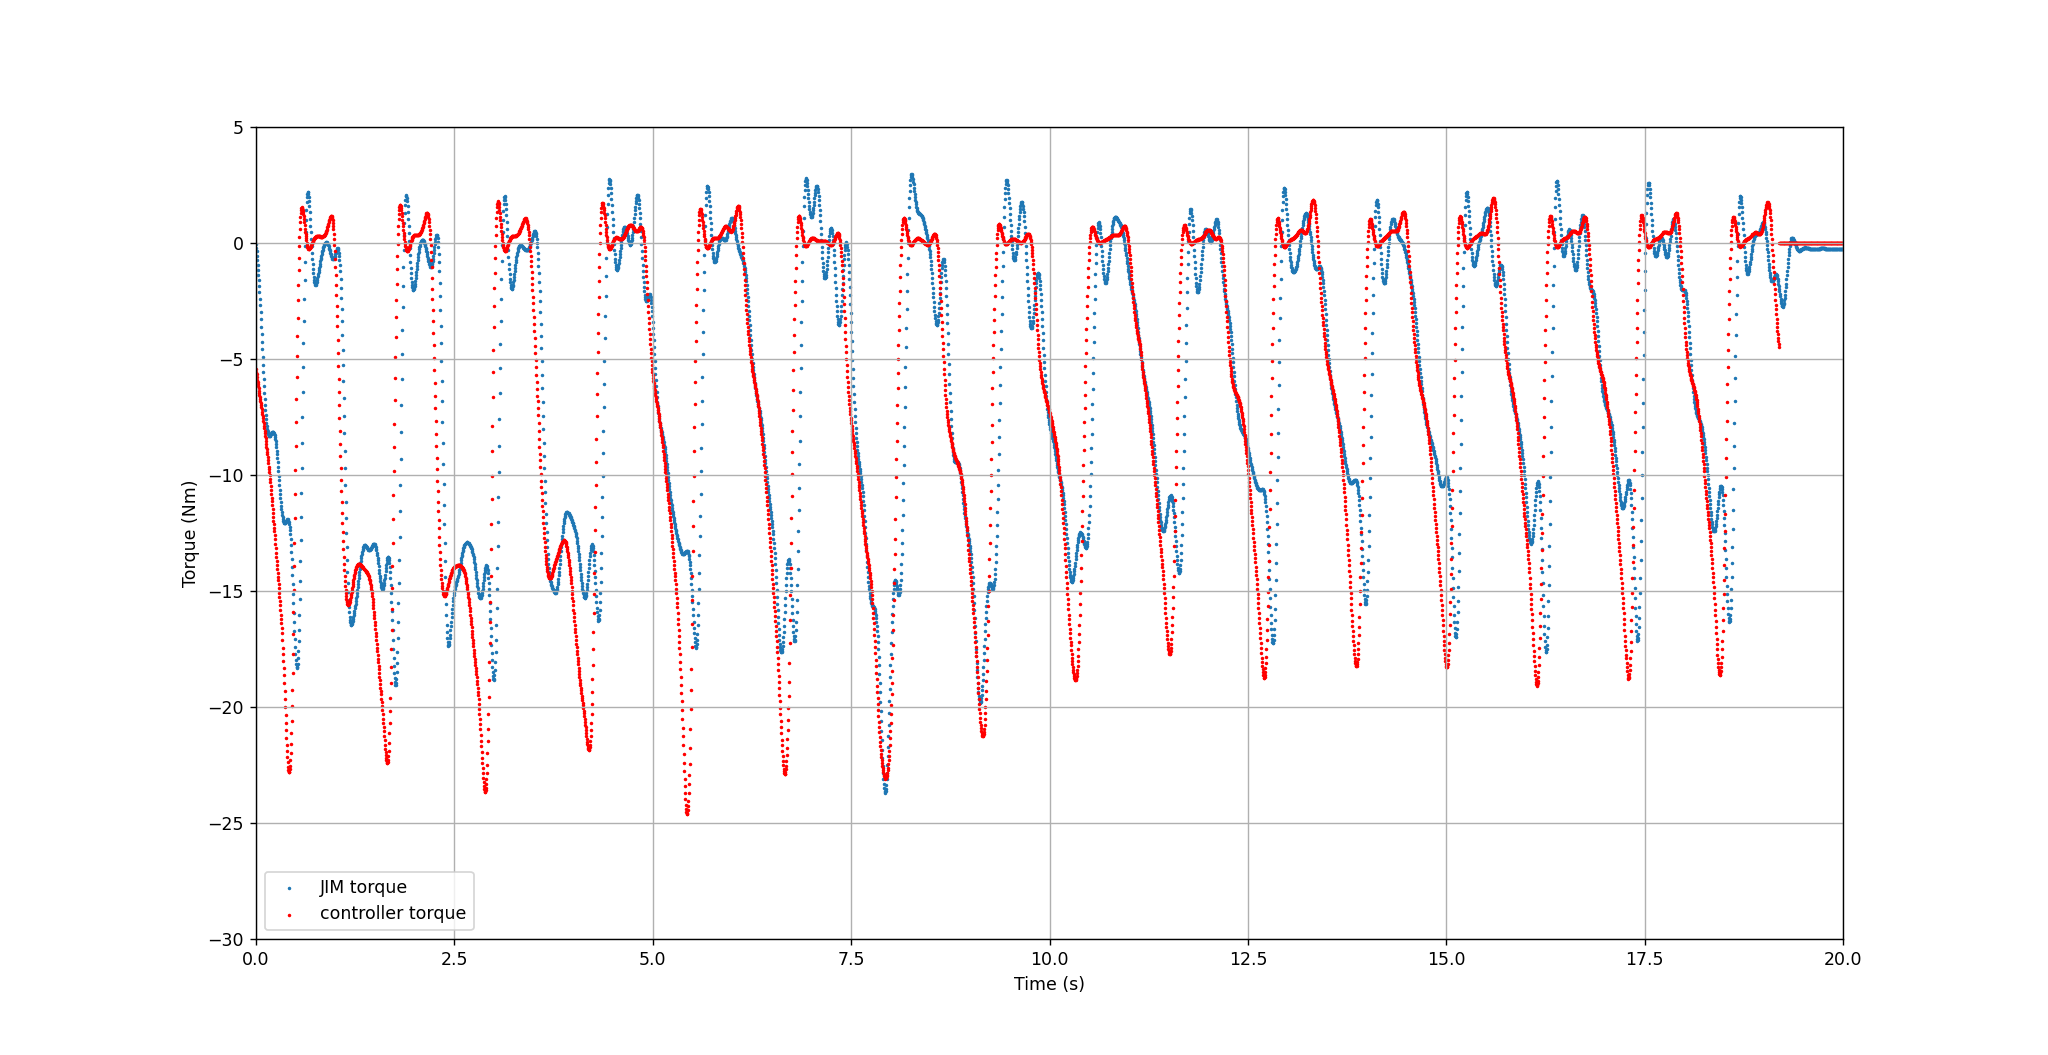
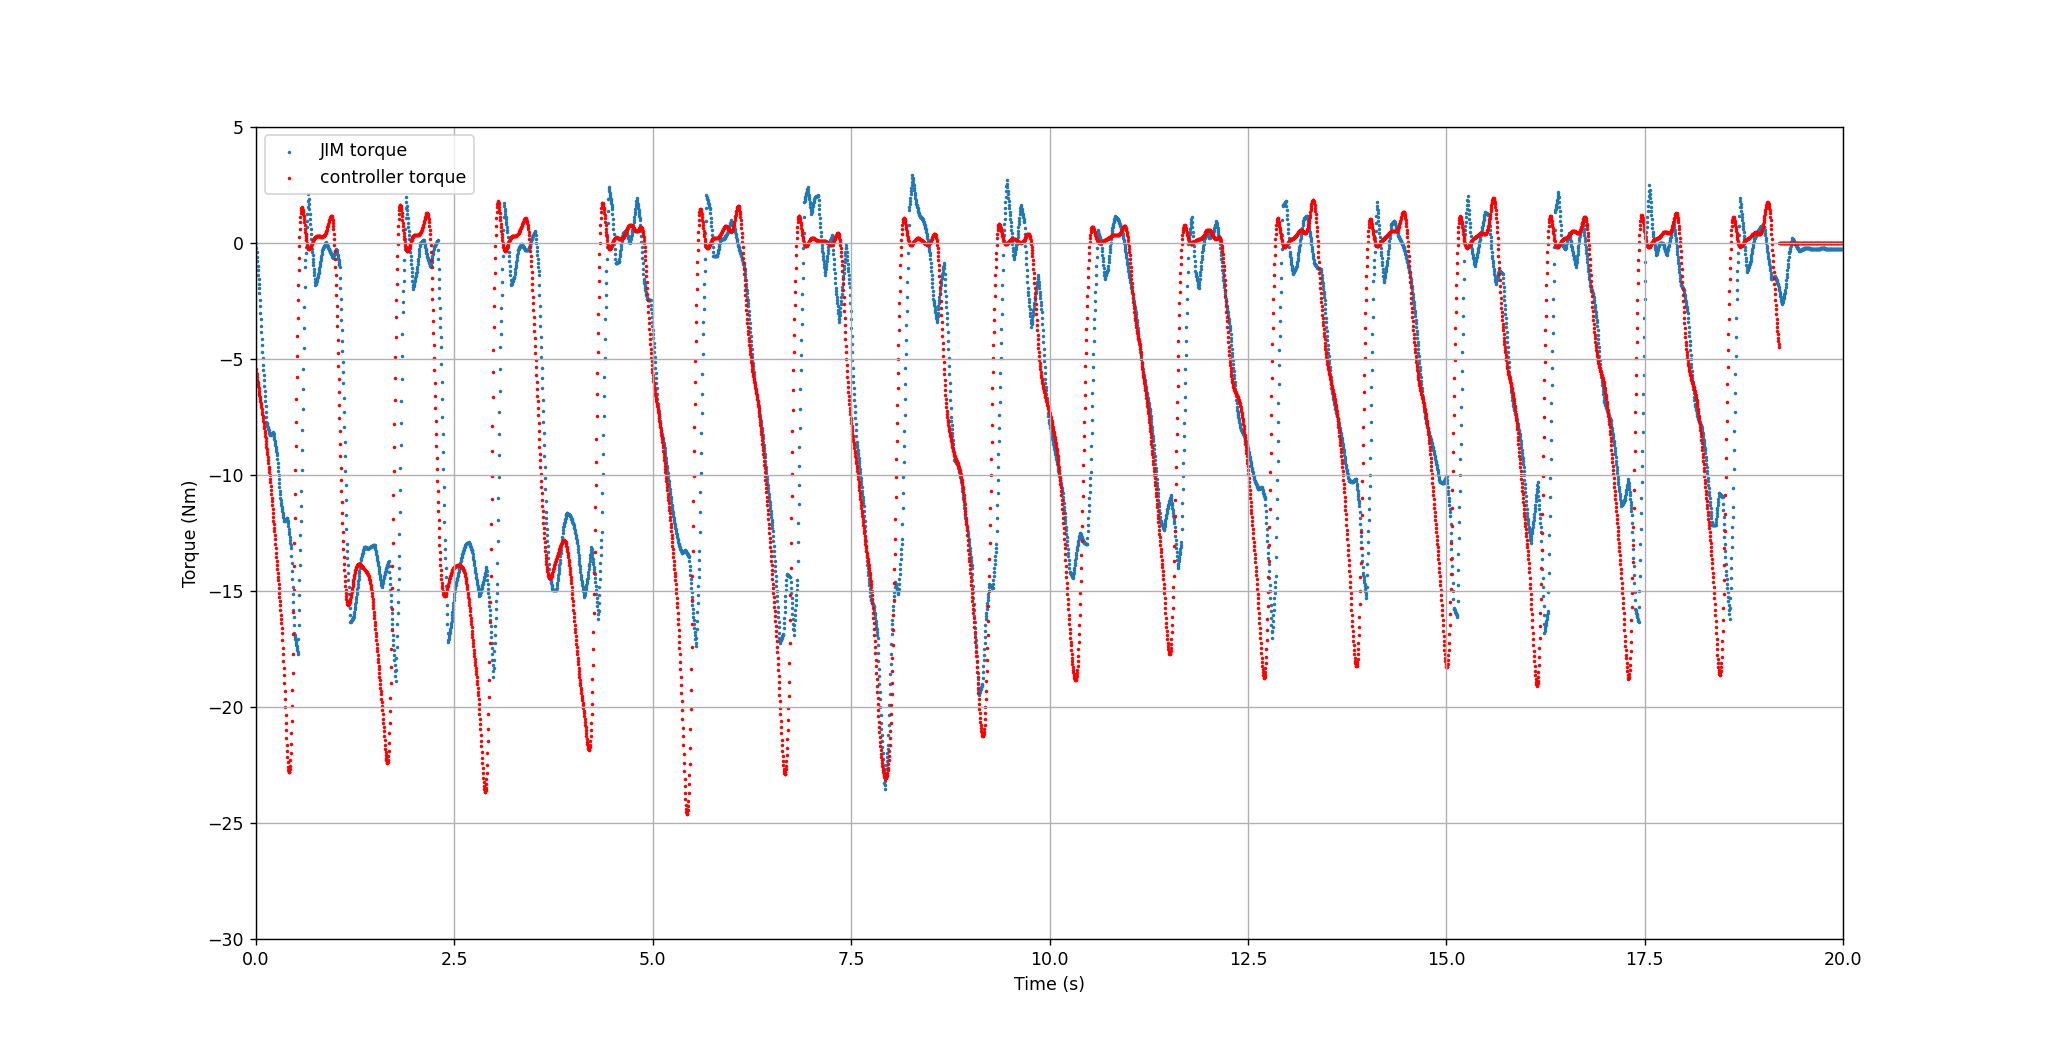
update

diff --git a/plotter.py b/plotter.py
@@ -182,19 +182,12 @@ def load_JIM_controller_avg(dir):
     # Combine JIM data
     first_time_vector = None
     for EXO_file in EXO_files:
-        JIM_time, JIM_angle, JIM_torque = load_mat(os.path.join(dir, EXO_file), os.path.join(dir, CAL_file), adjust=False, lpf=True, cutoff=6, fs=220)
-        df = pd.DataFrame({'Time': JIM_time,
+        JIM_time, JIM_angle, JIM_torque = load_mat(os.path.join(dir, EXO_file), os.path.join(dir, CAL_file), adjust=False, lpf=True, cutoff=6, fs=227)
+        df = pd.DataFrame({'Time': pd.to_timedelta(JIM_time, unit='s'),
                            'Angle': JIM_angle,
-                           'Torque': JIM_torque}) #.set_index('Time')
-        EXO_dataframes.append(df)
-
-        if first_time_vector is None:
-            first_time_vector = JIM_time
-        else:
-            # Check if current time vector matches the first one
-            if not np.array_equal(first_time_vector, JIM_time):
-                all_times_match = False
-                print(f"Time data mismatch found in file: {EXO_file}")
+                           'Torque': JIM_torque}).set_index('Time')
+        df_resampled = df.resample('0.004S').interpolate()
+        EXO_dataframes.append(df_resampled)
 
     # Combine controller data
     for csv_file in csv_files:
@@ -214,9 +207,9 @@ def load_JIM_controller_avg(dir):
 
     # Concatenate dataframes and calculate JIM data average
     EXO_combined_df = pd.concat(EXO_dataframes, axis=1)
-    EXO_avg_df = pd.DataFrame({'Time': EXO_combined_df.filter(like='Time').mean(axis=1),
-                               'Angle': EXO_combined_df.filter(like='Angle').mean(axis=1),
-                               'Torque': EXO_combined_df.filter(like='Torque').mean(axis=1)})#.reset_index()
+    EXO_avg_df = pd.DataFrame({'Angle': EXO_combined_df.filter(like='Angle').mean(axis=1),
+                               'Torque': EXO_combined_df.filter(like='Torque').mean(axis=1)}).reset_index()
+    EXO_avg_df['Time'] = (EXO_avg_df['Time'] - EXO_avg_df['Time'][0]) / pd.Timedelta('1s')  # Set the time back to float
 
     # Concatenate dataframes and calculate controller data average
     csv_combined_df = pd.concat(csv_dataframes, axis=1)
@@ -225,8 +218,6 @@ def load_JIM_controller_avg(dir):
                                'Passive Torque': csv_combined_df.filter(like='Passive Torque').mean(axis=1)}).reset_index()
     csv_avg_df['Time'] = (csv_avg_df['Time'] - csv_avg_df['Time'][0]) / pd.Timedelta('1s')   # Set the time back to float
 
-    # print("Combined EXO dataframe shape:", EXO_combined_df.shape)
-    # print("Combined CSV dataframe shape:", csv_combined_df.shape)
     return EXO_avg_df, csv_avg_df
 
 
@@ -252,27 +243,6 @@ def plot_JIM_vs_controller(EXO_data, csv_data, PI=False):
     plt.show()
 
 
-
 dir_path = f"I:\\My Drive\\Locomotor\\ExoBoot\\data\\traj_controller_2"
 JIM_data_avg, controller_data_avg = load_JIM_controller_avg(dir_path)
-
-plot_JIM_vs_controller(JIM_data_avg, controller_data_avg, PI=False)
-
-# dir_path_t = f"I:\\My Drive\\Locomotor\\ExoBoot\\data\\traj_pos_lim_-0.5"
-# JIM_data_avg_t, controller_data_avg_t = load_JIM_controller_avg(dir_path_t)
-
-# plt.figure(figsize=(8, 6), dpi=125)
-
-# plt.scatter(JIM_data_avg['Time'], JIM_data_avg['Torque'], label='without threshold', s=1)
-# plt.scatter(JIM_data_avg_t['Time'], JIM_data_avg_t['Torque'], label='with threshold', color='green', s=1)
-# plt.scatter(controller_data_avg_t['Time'], controller_data_avg_t['Desire Torque'], label='controller torque', color='red', s=1)
-
-# # plt.scatter(JIM_data_avg.index, JIM_data_avg[['Time']])
-
-# plt.xlim(0, 20)
-# plt.ylim(-30, 5)
-# plt.xlabel('Time (s)')
-# plt.ylabel('Torque (Nm)')
-# plt.legend()
-# plt.grid(True)
-# plt.show()
+plot_JIM_vs_controller(JIM_data_avg, controller_data_avg)
